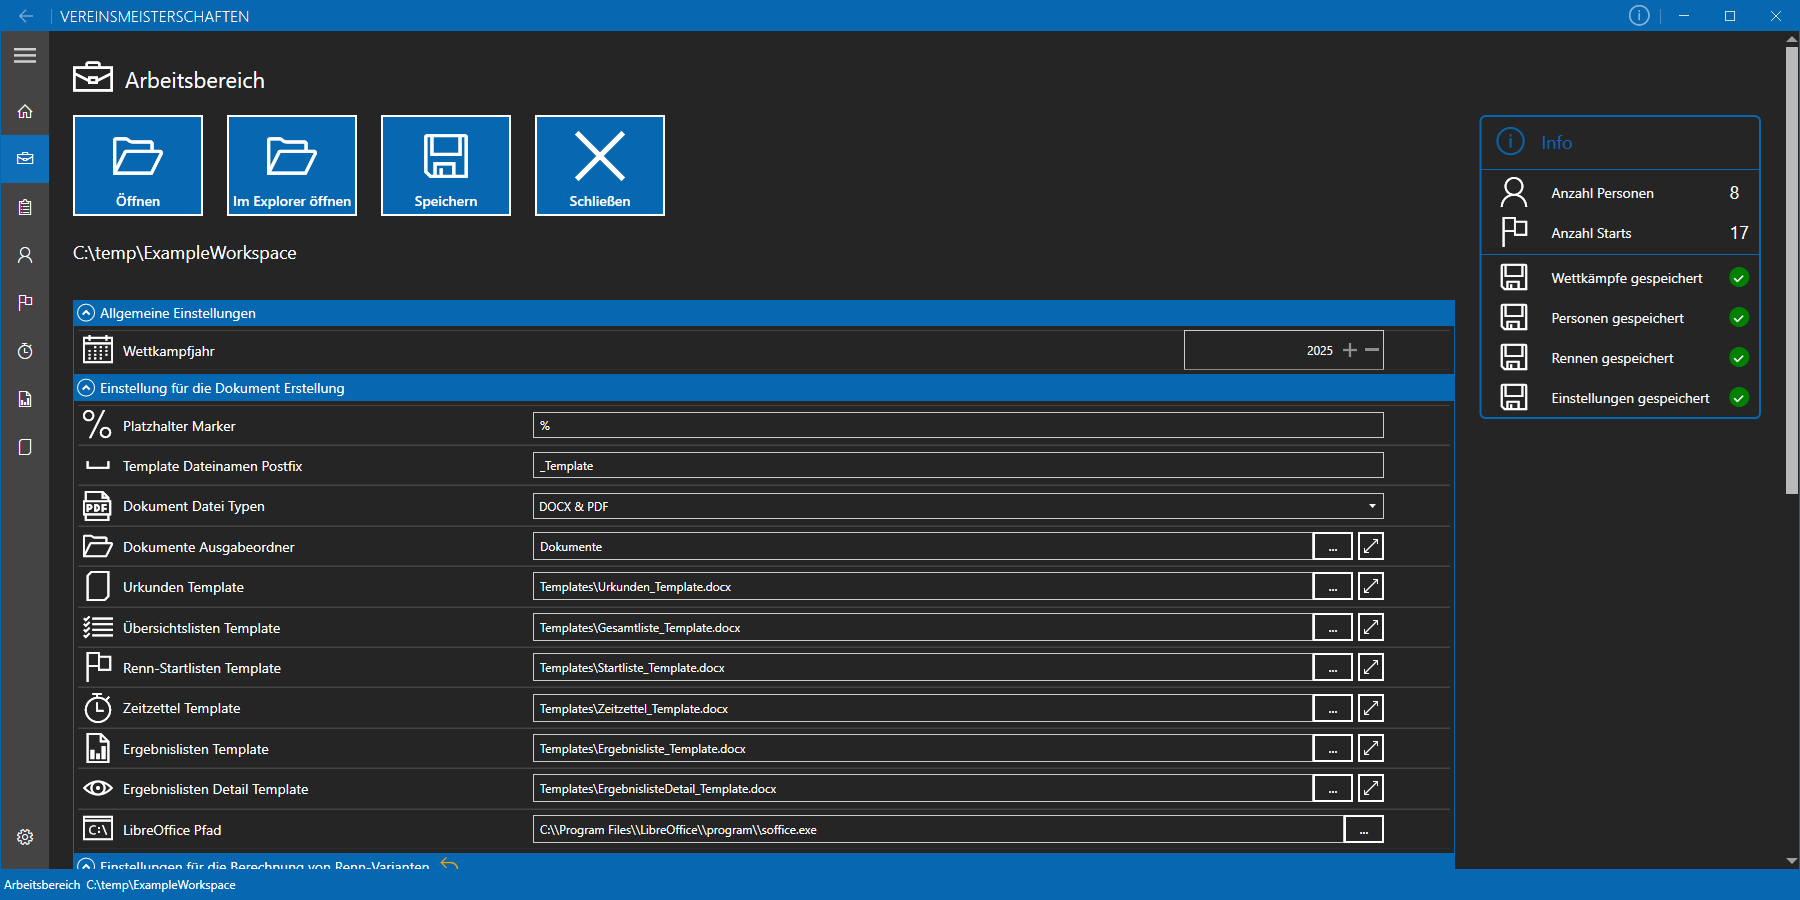
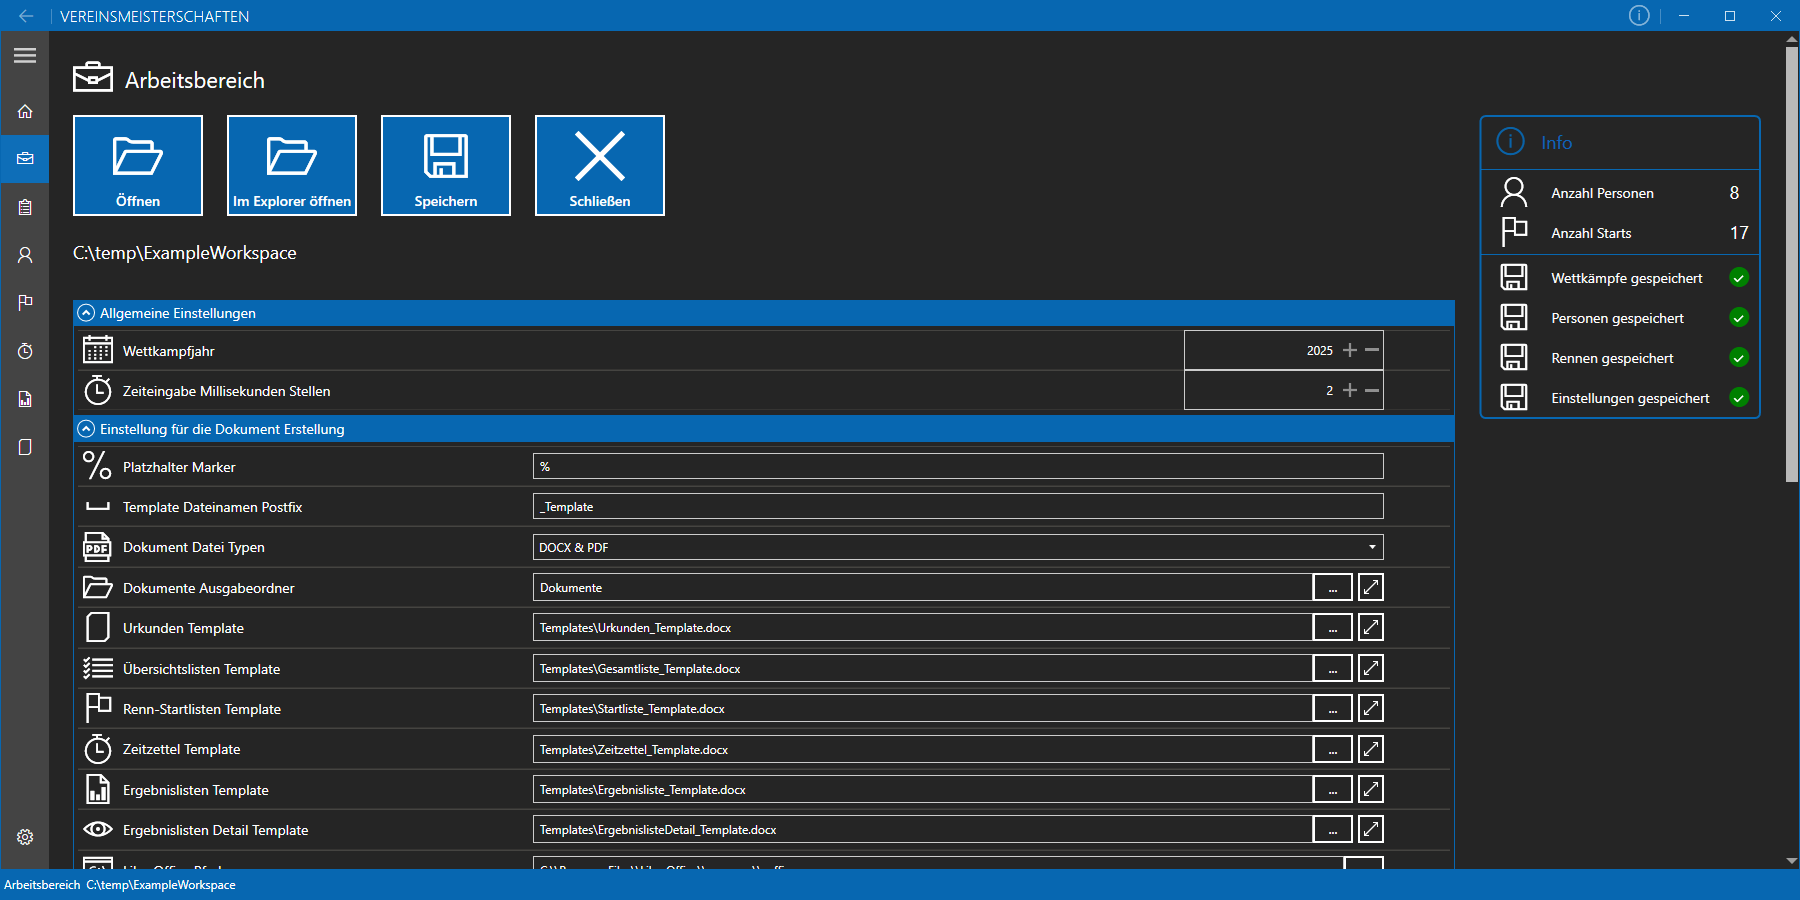
Adapted TimeSpanControl to add a MillisecondDigits property, made this configurable via settings

Changed region(s): [[0.0311, 0.4044, 0.8089, 0.9644], [0.9956, 0.5289, 1.0, 0.56]]

diff --git a/Vereinsmeisterschaften/Controls/TimeSpanControl.xaml b/Vereinsmeisterschaften/Controls/TimeSpanControl.xaml
@@ -16,7 +16,7 @@
             <Setter Property="VerticalAlignment" Value="Center"/>
             <Setter Property="FontSize" Value="{StaticResource LargeFontSize}"/>
         </Style>
-        
+
         <SolidColorBrush x:Key="digitsHighlightBrush" Color="{DynamicResource MahApps.Colors.Accent}"/>
     </UserControl.Resources>
 
@@ -96,7 +96,7 @@
                 <StackPanel DockPanel.Dock="Left" Orientation="Horizontal" Visibility="{Binding MillisecondsVisible, Converter={StaticResource BooleanToVisibilityConverter}}">
                     <TextBlock Text="." Style="{StaticResource TimeSpanControlTextBlockStyle}"/>
                     <TextBlock x:Name="txt_milliseconds" PreviewMouseDown="txt_milliseconds_PreviewMouseDown"
-                           Text="{Binding Milliseconds, StringFormat={}{0:000}, UpdateSourceTrigger=PropertyChanged, FallbackValue=000}">
+                               Text="{Binding MillisecondsDisplayed, UpdateSourceTrigger=PropertyChanged, FallbackValue=0}">
                         <TextBlock.Style>
                             <Style TargetType="{x:Type TextBlock}" BasedOn="{StaticResource TimeSpanControlTextBlockStyle}">
                                 <Style.Triggers>

diff --git a/Vereinsmeisterschaften/Views/TimeInputPage.xaml b/Vereinsmeisterschaften/Views/TimeInputPage.xaml
@@ -230,7 +230,7 @@
                                             <Setter Property="Content">
                                                 <Setter.Value>
                                                     <Border HorizontalAlignment="Center">
-                                                        <userControls:TimeSpanControl Value="{Binding Time, UpdateSourceTrigger=PropertyChanged}" HoursVisible="False" ToolTip="mm:ss.fff"/>
+                                                        <userControls:TimeSpanControl Value="{Binding Time, UpdateSourceTrigger=PropertyChanged}" HoursVisible="False" ToolTip="mm:ss.fff" MillisecondDigits="{Binding DataContext.TimeInputMillisecondDigits, RelativeSource={RelativeSource Mode=FindAncestor, AncestorType=Page}}"/>
                                                     </Border>
                                                 </Setter.Value>
                                             </Setter>

diff --git a/Vereinsmeisterschaften/Controls/TimeSpanControl.xaml.cs b/Vereinsmeisterschaften/Controls/TimeSpanControl.xaml.cs
@@ -22,6 +22,11 @@ namespace Vereinsmeisterschaften.Controls
             EditMilliseconds
         }
 
+        /// <summary>
+        /// Maximum number of digits for the milliseconds
+        /// </summary>
+        public const ushort MAX_NUMBER_MILLISECOND_DIGITS = 3;
+
         // ++++++++++++++++++++++++++++++++++++++++++++++++++++++++++++++++++++++++++++++++++++++++++++++++++++++++++++++++++++++++++++++++++++++++++++++
 
         /// <summary>
@@ -147,8 +152,62 @@ namespace Vereinsmeisterschaften.Controls
 
         private static void OnTimeChanged(DependencyObject obj, DependencyPropertyChangedEventArgs e)
         {
-            TimeSpanControl control = obj as TimeSpanControl;
-            control.Value = new TimeSpan(0, control.Hours, control.Minutes, control.Seconds, control.Milliseconds);
+            if (obj is TimeSpanControl control)
+            {
+                control.Value = new TimeSpan(0, control.Hours, control.Minutes, control.Seconds, control.Milliseconds);
+                control.updateMillisecondsDisplayed();
+            }
+        }
+
+        // ----------------------------------------------------------------------------------------------------------------------------------------------
+
+        /// <summary>
+        /// Number of digits to display for the milliseconds.
+        /// </summary>
+        public ushort MillisecondDigits
+        {
+            get => (ushort)GetValue(MillisecondDigitsProperty);
+            set => SetValue(MillisecondDigitsProperty, value);
+        }
+
+        /// <summary>
+        /// Dependency property for the <see cref="MillisecondDigits"/> property.
+        /// </summary>
+        public static readonly DependencyProperty MillisecondDigitsProperty = DependencyProperty.Register(nameof(MillisecondDigits), typeof(ushort), typeof(TimeSpanControl), new PropertyMetadata(MAX_NUMBER_MILLISECOND_DIGITS, OnMillisecondDigitsChanged));
+
+        private static void OnMillisecondDigitsChanged(DependencyObject d, DependencyPropertyChangedEventArgs e)
+        {
+            if (d is TimeSpanControl control)
+            {
+                if(control.MillisecondDigits < 1) { control.MillisecondDigits = 1; }
+                if (control.MillisecondDigits > MAX_NUMBER_MILLISECOND_DIGITS) { control.MillisecondDigits = MAX_NUMBER_MILLISECOND_DIGITS; }
+                control.updateMillisecondsDisplayed();
+            }
+        }
+
+        /// <summary>
+        /// Read-only property that contains the formatted milliseconds depending on the <see cref="MillisecondDigits"/> property.
+        /// </summary>
+        public string MillisecondsDisplayed
+        {
+            get { return (string)GetValue(MillisecondsDisplayedProperty); }
+            private set { SetValue(MillisecondsDisplayedProperty, value); }
+        }
+
+        private static readonly DependencyPropertyKey MillisecondsDisplayedPropertyKey = DependencyProperty.RegisterReadOnly(nameof(MillisecondsDisplayed), typeof(string), typeof(TimeSpanControl), new PropertyMetadata("000"));
+
+        /// <summary>
+        /// Read-only dependency property for the <see cref="MillisecondsDisplayed"/> property.
+        /// </summary>
+        public static readonly DependencyProperty MillisecondsDisplayedProperty = MillisecondsDisplayedPropertyKey.DependencyProperty;
+
+        private void updateMillisecondsDisplayed()
+        {
+            int factor = (int)Math.Pow(10, MAX_NUMBER_MILLISECOND_DIGITS - MillisecondDigits);
+            int displayedMilliseconds = Milliseconds / factor;
+            string format = new string('0', Math.Max((ushort)1, MillisecondDigits));
+            string formattedMilliseconds = displayedMilliseconds.ToString(format);
+            SetValue(MillisecondsDisplayedPropertyKey, formattedMilliseconds);
         }
 
         // ----------------------------------------------------------------------------------------------------------------------------------------------
@@ -237,8 +296,17 @@ namespace Vereinsmeisterschaften.Controls
                     }
                     break;
                 case TimeSpanControlEditModes.EditMilliseconds:
-                    Milliseconds = (Milliseconds * oldValueMultiplier) + digit;
-                    if (Milliseconds * 10 >= 999 || _digitEntry_CountEnteredZeroes >= 3) { _digitEntry_StartWithFirstDigit = true; _digitEntry_CountEnteredZeroes = 0; }
+                    int factor = (int)Math.Pow(10, MAX_NUMBER_MILLISECOND_DIGITS - MillisecondDigits); // 1, 10, 100
+                    int maxValue = 1000 - factor; // 900, 990, 999
+
+                    int tmpMilliseconds = (((Milliseconds / factor) * oldValueMultiplier) + digit) * factor;
+                    Milliseconds = Math.Min(maxValue, tmpMilliseconds);
+
+                    if (Milliseconds >= maxValue || Milliseconds * 10 >= maxValue || _digitEntry_CountEnteredZeroes >= MAX_NUMBER_MILLISECOND_DIGITS)
+                    {
+                        _digitEntry_StartWithFirstDigit = true;
+                        _digitEntry_CountEnteredZeroes = 0;
+                    }
                     break;
             }
         }
@@ -260,7 +328,16 @@ namespace Vereinsmeisterschaften.Controls
                     if(Seconds < 59) { Seconds++; }
                     break;
                 case TimeSpanControlEditModes.EditMilliseconds:
-                    if(Milliseconds < 999) { Milliseconds++; }
+                    int step = (int)Math.Pow(10, MAX_NUMBER_MILLISECOND_DIGITS - MillisecondDigits);
+                    int max = 1000 - step; // e.g. 900, 990 oder 999
+                    if (Milliseconds + step <= max)
+                    {
+                        Milliseconds += step;
+                    }
+                    else
+                    {
+                        Milliseconds = max;
+                    }
                     break;
             }
         }
@@ -282,7 +359,15 @@ namespace Vereinsmeisterschaften.Controls
                     if (Seconds > 0) { Seconds--; }
                     break;
                 case TimeSpanControlEditModes.EditMilliseconds:
-                    if (Milliseconds > 0) { Milliseconds--; }
+                    int step = (int)Math.Pow(10, MAX_NUMBER_MILLISECOND_DIGITS - MillisecondDigits);
+                    if (Milliseconds - step >= 0)
+                    {
+                        Milliseconds -= step;
+                    }
+                    else
+                    {
+                        Milliseconds = 0;
+                    }
                     break;
             }
         }

diff --git a/Vereinsmeisterschaften/ViewModels/TimeInputViewModel.cs b/Vereinsmeisterschaften/ViewModels/TimeInputViewModel.cs
@@ -1,9 +1,10 @@
-using System.ComponentModel;
+using CommunityToolkit.Mvvm.ComponentModel;
+using System.ComponentModel;
 using System.Windows.Data;
-using CommunityToolkit.Mvvm.ComponentModel;
 using Vereinsmeisterschaften.Contracts.ViewModels;
 using Vereinsmeisterschaften.Core.Contracts.Services;
 using Vereinsmeisterschaften.Core.Models;
+using Vereinsmeisterschaften.Core.Settings;
 
 namespace Vereinsmeisterschaften.ViewModels;
 
@@ -31,6 +32,16 @@ public class TimeInputViewModel : ObservableObject, INavigationAware
     /// Gets the persisted variant of races as managed by the race service.
     /// </summary>
     public RacesVariant PersistedRacesVariant => _raceService?.PersistedRacesVariant;
+
+    private int _timeInputMillisecondDigits;
+    /// <summary>
+    /// Number of digits used to display milliseconds in the time input control.
+    /// </summary>
+    public int TimeInputMillisecondDigits
+    {
+        get => _timeInputMillisecondDigits;
+        set => SetProperty(ref _timeInputMillisecondDigits, value);
+    }
 
     // ++++++++++++++++++++++++++++++++++++++++++++++++++++++++++++++++++++++++++++++++++++++++++++++++++++++++++++++++++++++++++++++++++++++++++++++
 
@@ -125,16 +136,19 @@ public class TimeInputViewModel : ObservableObject, INavigationAware
 
     private readonly IPersonService _personService;
     private readonly IRaceService _raceService;
+    private readonly IWorkspaceService _workspaceService;
 
     /// <summary>
     /// Constructor of the time input view model
     /// </summary>
     /// <param name="personService"><see cref="IPersonService"/> object</param>
     /// <param name="raceService"><see cref="IRaceService"/> object</param>
-    public TimeInputViewModel(IPersonService personService, IRaceService raceService)
+    /// <param name="workspaceService"><see cref="IWorkspaceService"/> object</param>
+    public TimeInputViewModel(IPersonService personService, IRaceService raceService, IWorkspaceService workspaceService)
     {
         _personService = personService;
         _raceService = raceService;
+        _workspaceService = workspaceService;
     }
 
     /// <inheritdoc/>
@@ -143,6 +157,8 @@ public class TimeInputViewModel : ObservableObject, INavigationAware
         AvailablePersonStarts = _personService.GetAllPersonStarts();
         AvailablePersonStartsCollectionView = CollectionViewSource.GetDefaultView(AvailablePersonStarts);
         AvailablePersonStartsCollectionView.Filter += AvailablePersonStartsFilterPredicate;
+
+        TimeInputMillisecondDigits = _workspaceService?.Settings?.GetSettingValue<ushort>(WorkspaceSettings.GROUP_GENERAL, WorkspaceSettings.SETTING_GENERAL_TIMEINPUT_NUMBER_MILLISECOND_DIGITS) ?? 2;
 
         OnPropertyChanged(nameof(PersistedRacesVariant));
         OnPropertyChanged(nameof(AvailablePersons));

diff --git a/Vereinsmeisterschaften.Core/Settings/WorkspaceSettings.cs b/Vereinsmeisterschaften.Core/Settings/WorkspaceSettings.cs
@@ -13,6 +13,7 @@ namespace Vereinsmeisterschaften.Core.Settings
 
         public const string GROUP_GENERAL = "General";
         public const string SETTING_GENERAL_COMPETITIONYEAR = "CompetitionYear";
+        public const string SETTING_GENERAL_TIMEINPUT_NUMBER_MILLISECOND_DIGITS = "TimeInputMillisecondDigits";
 
         public const string GROUP_RACE_CALCULATION = "RaceCalculation";
         public const string SETTING_RACE_CALCULATION_NUMBER_OF_SWIM_LANES = "NumberOfSwimLanes";
@@ -62,7 +63,8 @@ namespace Vereinsmeisterschaften.Core.Settings
             // +++++ Group General +++++
             WorkspaceSettingsGroup groupGeneral = GetGroup(GROUP_GENERAL, true);
             groupGeneral.MakeSureSettingExists<ushort>(SETTING_GENERAL_COMPETITIONYEAR, 0, 1900, 3000);
-
+            groupGeneral.MakeSureSettingExists<ushort>(SETTING_GENERAL_TIMEINPUT_NUMBER_MILLISECOND_DIGITS, 2, 1, 3);
+            
             // +++++ Group Race Calculation +++++
             WorkspaceSettingsGroup groupRaceCalculation = GetGroup(GROUP_RACE_CALCULATION, true);
             groupRaceCalculation.MakeSureSettingExists<ushort>(SETTING_RACE_CALCULATION_NUMBER_OF_SWIM_LANES, 3, 0, 10);

diff --git a/Vereinsmeisterschaften/ViewModels/WorkspaceSettingViewConfigs.cs b/Vereinsmeisterschaften/ViewModels/WorkspaceSettingViewConfigs.cs
@@ -27,6 +27,10 @@ namespace Vereinsmeisterschaften.ViewModels
                 (WorkspaceSettings.GROUP_GENERAL, WorkspaceSettings.SETTING_GENERAL_COMPETITIONYEAR),
                 new WorkspaceSettingViewConfig() { Label=Resources.CompetitionYearString, Tooltip = Tooltips.TooltipCompetitionYear, Icon = "\uE787", Editor = WorkspaceSettingEditorTypes.Numeric, SupportResetToDefault = false }
             },
+            {
+                (WorkspaceSettings.GROUP_GENERAL, WorkspaceSettings.SETTING_GENERAL_TIMEINPUT_NUMBER_MILLISECOND_DIGITS),
+                new WorkspaceSettingViewConfig() { Label=Resources.TimeInputMillisecondDigitsString, Tooltip = Tooltips.TooltipTimeInputMillisecondDigits, Icon = "\uE916", Editor = WorkspaceSettingEditorTypes.Numeric }
+            },
             // -----------------------------------------------------------------------------------------------------------------------------------------------------------------------------------------------------------------------------------------
             {
                 (WorkspaceSettings.GROUP_DOCUMENT_CREATION, WorkspaceSettings.SETTING_DOCUMENT_CREATION_PLACEHOLDER_MARKER),

diff --git a/Vereinsmeisterschaften/Properties/Tooltips.Designer.cs b/Vereinsmeisterschaften/Properties/Tooltips.Designer.cs
@@ -347,6 +347,15 @@ namespace Vereinsmeisterschaften.Properties {
         }
         
         /// <summary>
+        ///   Sucht eine lokalisierte Zeichenfolge, die Number of digits for the time input Millisecond. ähnelt.
+        /// </summary>
+        public static string TooltipTimeInputMillisecondDigits {
+            get {
+                return ResourceManager.GetString("TooltipTimeInputMillisecondDigits", resourceCulture);
+            }
+        }
+        
+        /// <summary>
         ///   Sucht eine lokalisierte Zeichenfolge, die Weight for the score for person pauses (The more pause between the starts of a person the better). ähnelt.
         /// </summary>
         public static string TooltipWeightPersonStartPauses {

diff --git a/Vereinsmeisterschaften/Properties/Resources.Designer.cs b/Vereinsmeisterschaften/Properties/Resources.Designer.cs
@@ -1271,6 +1271,15 @@ namespace Vereinsmeisterschaften.Properties {
         }
         
         /// <summary>
+        ///   Sucht eine lokalisierte Zeichenfolge, die Time Input Millisecond Digits ähnelt.
+        /// </summary>
+        public static string TimeInputMillisecondDigitsString {
+            get {
+                return ResourceManager.GetString("TimeInputMillisecondDigitsString", resourceCulture);
+            }
+        }
+        
+        /// <summary>
         ///   Sucht eine lokalisierte Zeichenfolge, die TimeInput ähnelt.
         /// </summary>
         public static string TimeInputPageTitle {
